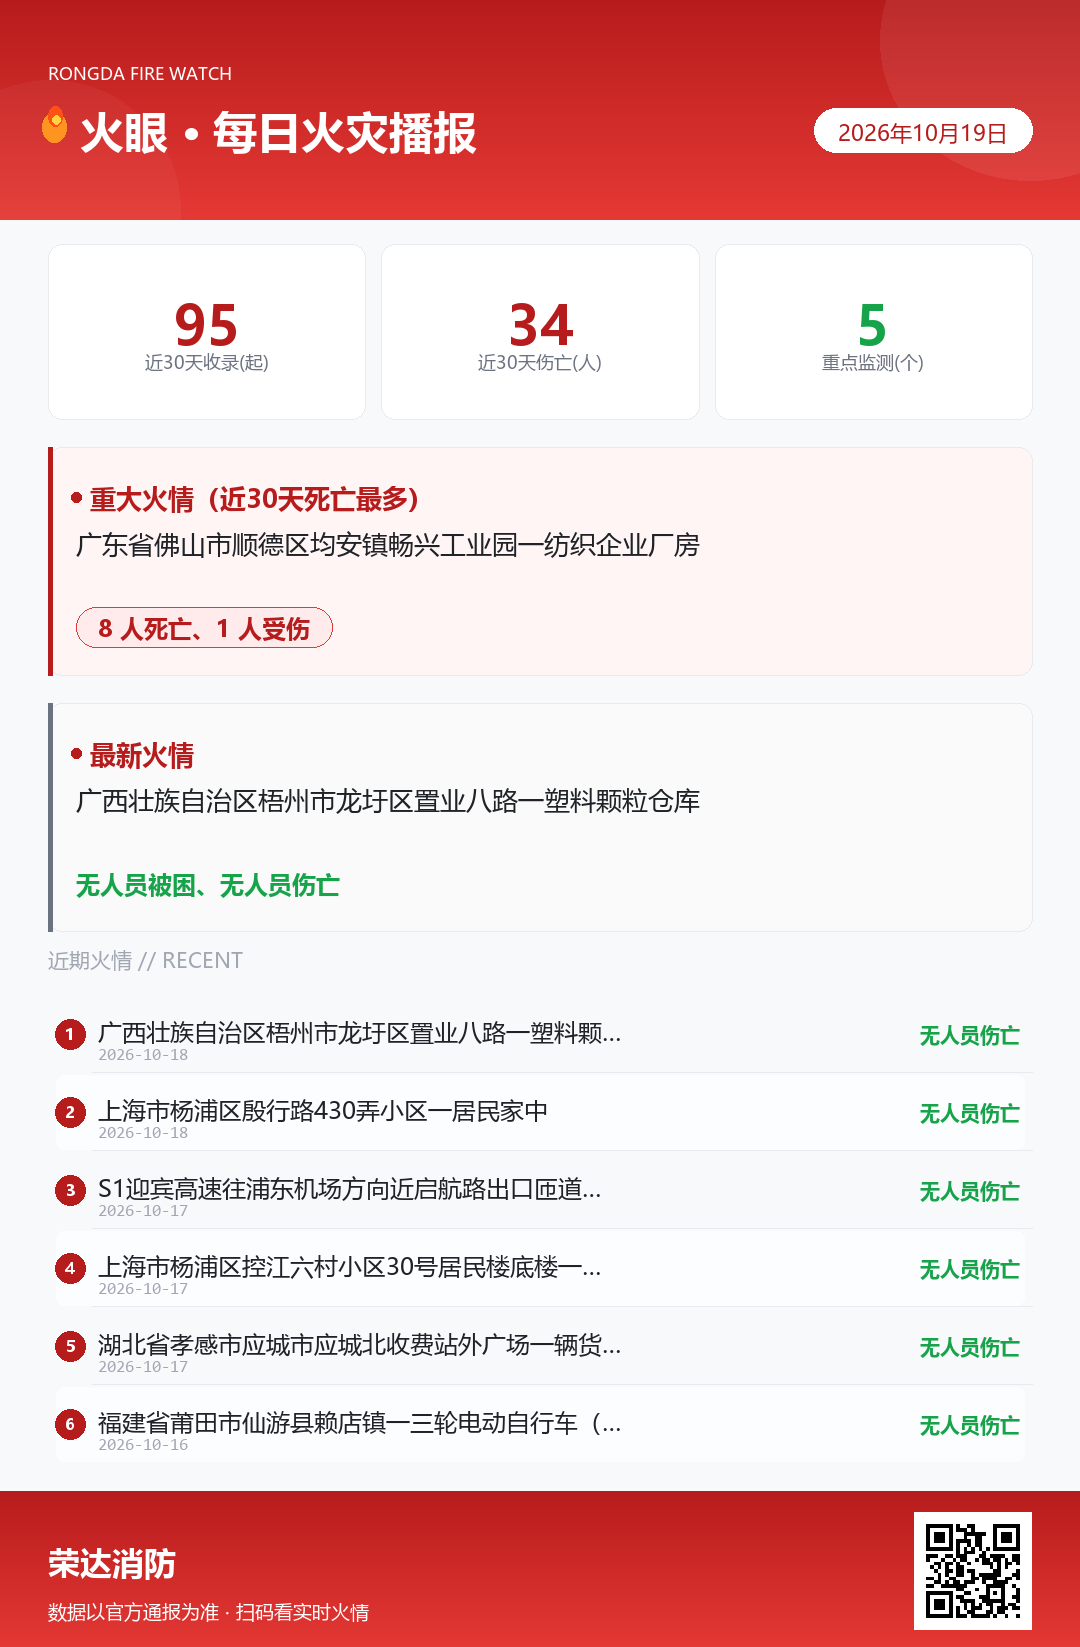
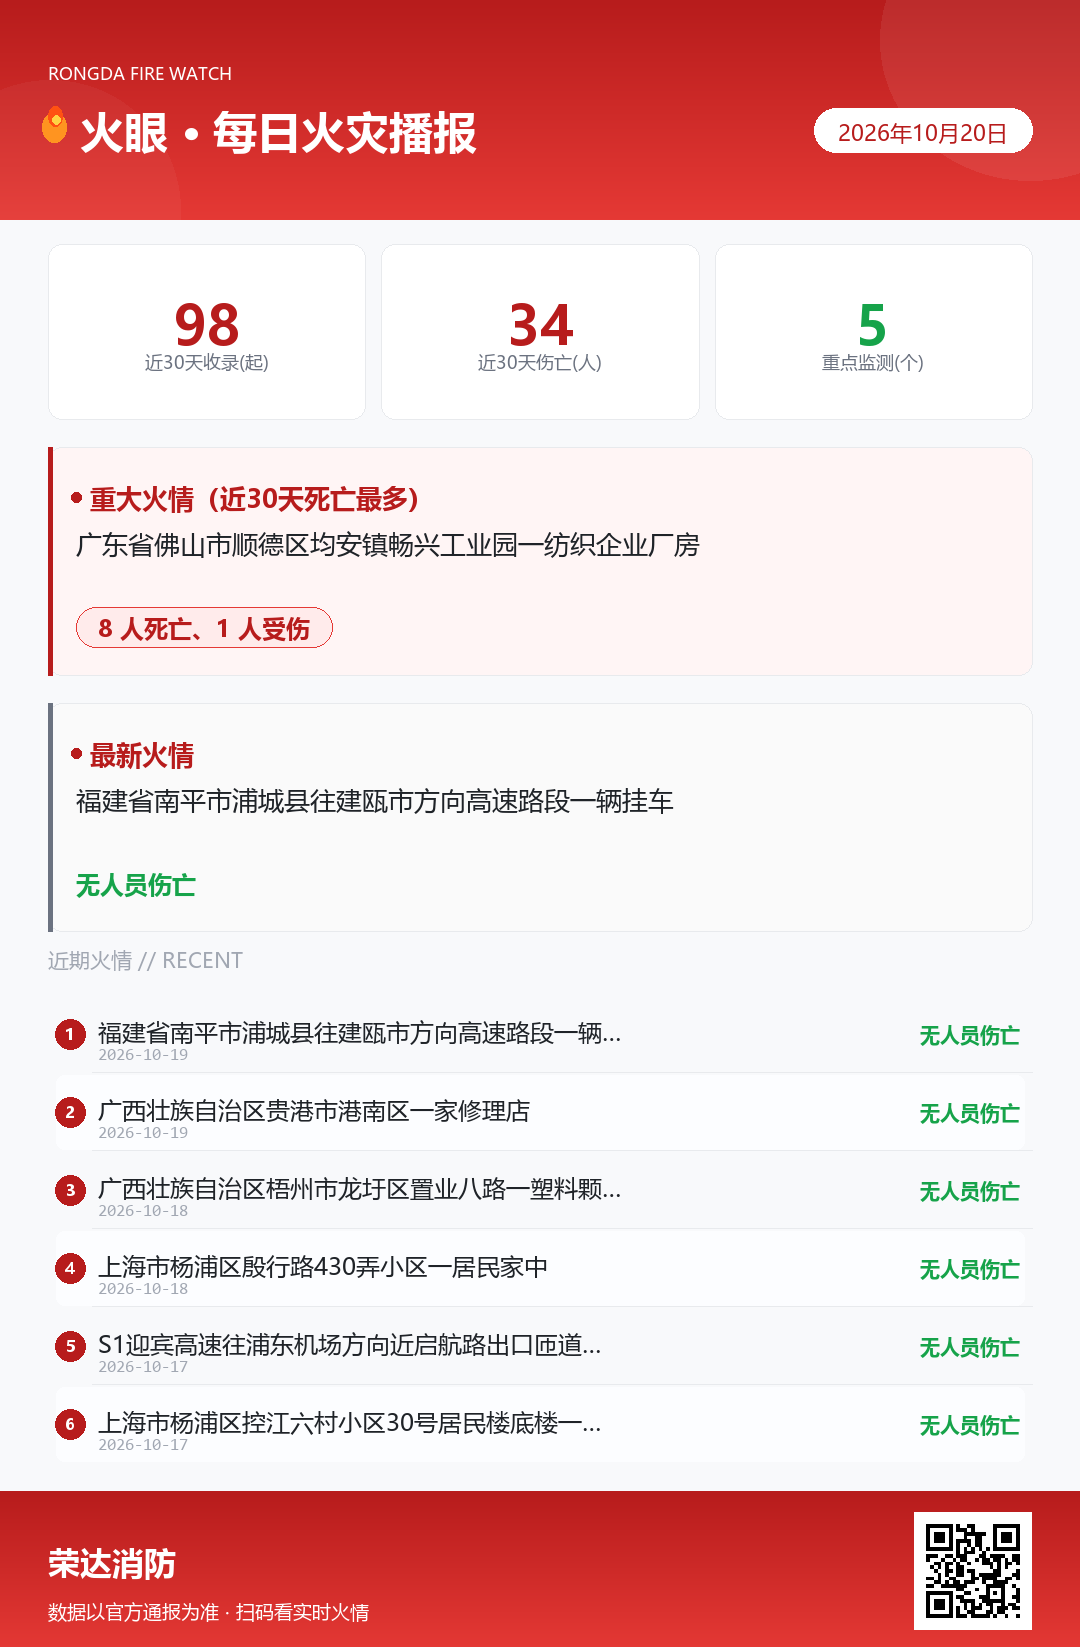
fire-daily-brief 2026-10-20 07:02 roll

diff --git a/index.html b/index.html
@@ -435,8 +435,8 @@
 <!-- ============ DATA（每日自动更新：由自动化脚本重写此对象） ============ -->
 <script id="brief-data" type="application/json">
 {
-  "date": "2026年10月19日",
-  "compileTime": "2026-10-19 09:54",
+  "date": "2026年10月20日",
+  "compileTime": "2026-10-20 07:01",
   "source": "AI 联网检索 · 各地消防救援机构官方通报及权威媒体转载",
   "range": "滚动更新 · 近 30 天",
   "stats": {
@@ -459,17 +459,17 @@
     },
     {
       "name": "深圳市",
-      "status": "有官方通报（8·1 宝安西乡电动车充电桩、8·4 龙岗布吉停车场车辆起火、8·21 罗湖桃园路奥特城楼顶火情、9·17 罗湖区桂园街道KK MALL商场消防通道附近电线短路局部冒烟（无人员受伤）、9·25 罗湖区南塘商业广场一小区住户阳台祭祀香烛引燃阳台杂物起火，邻居接力扑灭（无人员伤亡））"
+      "status": "有官方通报（8·1 宝安西乡电动车充电桩、8·4 龙岗布吉停车场车辆起火、8·21 罗湖桃园路奥特城楼顶火情、9·17 罗湖区桂园街道KK MALL商场消防通道附近电线短路局部冒烟（无人员受伤）、9·25 罗湖区南塘商业广场一小区住户阳台祭祀香烛引燃阳台杂物起火，邻居接力扑灭（无人员伤亡）、9·22 龙岗区宝龙街道一住宅室内二手电动自行车锂电池自燃起火（无人员伤亡，当事人被行拘10日）"
     }
   ],
   "case": {
-    "date": "2026-10-18",
-    "location": "广西壮族自治区梧州市龙圩区置业八路一塑料颗粒仓库",
-    "category": "仓储/物流",
-    "summary": "10月18日9时16分，梧州市龙圩区置业八路一塑料颗粒仓库发生火灾。接报后，梧州市消防救援局指挥中心立即调派1个举高编队、8个灭火编队，出动17辆消防车、85名消防救援人员赶赴现场扑救。经初步了解，燃烧物主要为塑料颗粒制品，现场无人员被困。截至通报发布时，火灾已得到有效控制。相关视频曾在网络热传，消防部门同时呼吁市民理性对待突发火情，不转发未经核实的图片、视频，不传播不属实信息。",
-    "casualty": "无人员被困、无人员伤亡",
-    "cause": "通报未披露，具体原因以官方后续调查为准",
-    "src": "梧州消防微信公众号火情通报，南方+/澎湃新闻/腾讯新闻转载（2026-10-18）"
+    "date": "2026-10-19",
+    "location": "福建省南平市浦城县往建瓯市方向高速路段一辆挂车",
+    "category": "交通枢纽",
+    "summary": "10月19日，福建南平浦城县往建瓯市方向高速路段一辆挂车行驶中自燃起火，现场腾起黑色浓烟，起火车辆突然腾起猛烈火焰，明火形成巨大橙红色火球，途经车辆纷纷避让。13时许，记者从高速公路救援部门获悉，火势已被扑灭，事故未造成人员伤亡，相关路段车辆正逐步恢复通行。",
+    "casualty": "无人员伤亡",
+    "cause": "行驶中自燃，具体原因以官方后续调查为准",
+    "src": "百姓关注（贵州广播电视台）/澎湃新闻（2026-10-19）"
   },
   "tips": [
     "住宅近30天火情占比超三成，多在老旧插排长期通电、手机充电器不拔、私拉乱接短路：泉州9·27民房手机充电器长年通电打火、泉州9·26沿街超市插排串联过载短路。老旧插排和永远不拔的充电器该换就换，睡前出门拉总闸，明线私拉一律整改。",
@@ -488,6 +488,24 @@
     "媒体转载内容均注明原始官方来源。"
   ],
   "history": [
+    {
+      "date": "2026-10-19",
+      "location": "福建省南平市浦城县往建瓯市方向高速路段一辆挂车",
+      "category": "交通枢纽",
+      "summary": "10月19日，福建南平浦城县往建瓯市方向高速路段一辆挂车行驶中自燃起火，现场腾起黑色浓烟，起火车辆突然腾起猛烈火焰，明火形成巨大橙红色火球，途经车辆纷纷避让。13时许，记者从高速公路救援部门获悉，火势已被扑灭，事故未造成人员伤亡，相关路段车辆正逐步恢复通行。",
+      "casualty": "无人员伤亡",
+      "cause": "行驶中自燃，具体原因以官方后续调查为准",
+      "src": "百姓关注（贵州广播电视台）/澎湃新闻（2026-10-19）"
+    },
+    {
+      "date": "2026-10-19",
+      "location": "广西壮族自治区贵港市港南区一家修理店",
+      "category": "其他",
+      "summary": "10月19日14时许，贵港市港南分局反恐怖和特巡警大队辅警与同事外出执行任务，途经辖区一家修理店时，发现店内冒出滚滚浓烟、明火蹿起。店铺工作人员正用水和灭火器尝试扑救，但火势持续扩大并有向周边蔓延的趋势。辅警与同事当即停车，迅速取用现场灭火器，与店主、周边群众分工配合向着火点喷射灭火剂，短短数分钟成功扑灭全部明火，并仔细排查现场消除复燃隐患。经现场核查，起火原因为店内待维修电动车电瓶短路，引燃周边物品。",
+      "casualty": "无人员伤亡",
+      "cause": "店内待维修电动车电瓶短路引燃周边物品",
+      "src": "港南公安微信公众号（2026-10-19）"
+    },
     {
       "date": "2026-10-18",
       "location": "广西壮族自治区梧州市龙圩区置业八路一塑料颗粒仓库",
@@ -786,6 +804,15 @@
       "src": "江苏消防（无锡消防全媒体工作中心发布，2026-10-18）"
     },
     {
+      "date": "2026-10-12",
+      "location": "江苏省常州市钟楼区一烧烤店",
+      "category": "餐饮/酒店",
+      "summary": "10月12日傍晚，常州市钟楼区一烧烤店主跟往常一样在后厨起锅炒菜，不料点火的瞬间一团明火突然窜起，疑因炉内煤气积聚遇火爆燃。店主尝试用锅盖方式灭火但火势过大，此时厨房顶部的自动喷淋系统感应到高温后爆裂启动，水幕倾泻而下压住火势。消防员到达现场时明火已被喷淋扑灭，用餐区餐桌椅、碗筷基本保持原样，后厨灶台墙面被熏黑、油锅有过火痕迹。经排查，整起事故无人员伤亡。",
+      "casualty": "无人员伤亡",
+      "cause": "疑燃气点火瞬间爆燃（自动喷淋系统及时启动控火）",
+      "src": "常州消防（2026-10-19 案例通报）"
+    },
+    {
       "date": "2026-10-11",
       "location": "广东省佛山市南海区黄岐广佛五金城A区3号馆2号楼三楼仓库",
       "category": "仓储/物流",
@@ -820,6 +847,16 @@
       "casualty": "无人员伤亡",
       "cause": "起火原因正在进一步调查中",
       "src": "泉州消防/鲤城消防官方通报（2026-10-18），澎湃新闻转载"
+    },
+    {
+      "date": "2026-10-11",
+      "location": "四川省攀枝花市一住宅（客厅沙发）",
+      "category": "住宅/民房",
+      "summary": "10月11日，四川攀枝花一住宅发生火灾，一位老人坐在沙发上吸烟，烟蒂未彻底熄灭落进沙发缝隙，引燃木质沙发、扶手衣物、腰垫及旁边堆放的塑料杂物。万幸无人受伤，经消防部门调查，起火原因系遗留烟蒂引燃沙发可燃物所致。",
+      "casualty": "无人员受伤",
+      "cause": "老人遗留烟蒂引燃沙发可燃物（阴燃后蔓延）",
+      "src": "四川消防微信公众号通报（2026-10-18 重阳节宣传稿），搜狐转载",
+      "fromWatchlist": true
     },
     {
       "date": "2026-10-10",
@@ -910,6 +947,15 @@
       "casualty": "无人员伤亡",
       "cause": "违规电焊作业，焊渣引燃堆放草纸等可燃物（电焊工操作证过期、无证上岗）",
       "src": "中国消防、九江消防（2026-10 发布，发布日归档）"
+    },
+    {
+      "date": "2026-10-08",
+      "location": "浙江省杭州市某小区一电动车停车棚",
+      "category": "住宅/民房",
+      "summary": "10月8日清晨6时30分左右，杭州某小区一位业主突然听到爆响，从窗口望出去发现电动车停车棚处有火光冒出，第一时间联系物业并拨打119报警。物业工作人员2分钟内抵达现场，立即用灭火器开展紧急扑救，初期有3辆电动车起火，因锂电池燃烧速度极快，灭火器无法彻底压制，工作人员迅速连接室外消火栓铺设水带持续出水压制，消防救援人员抵达后对残余火势和阴燃点位彻底清理。此次火灾烧毁11辆电动车、5辆自行车、1辆摩托车，经初步调查，起火原因为电动自行车电池热失控。",
+      "casualty": "无人员伤亡",
+      "cause": "电动自行车电池热失控",
+      "src": "杭州网（据消防部门）/南方都市报转北京应急（2026-10-19）"
     },
     {
       "date": "2026-10-07",
@@ -1201,6 +1247,15 @@
       "src": "中国电信 / 新浪新闻（2026-09-29 报道，事件发生日 09-25）"
     },
     {
+      "date": "2026-09-25",
+      "location": "广东省东莞市麻涌镇一厂房（二楼动火作业）",
+      "category": "工厂/车间",
+      "summary": "9月25日17时20分许，东莞市麻涌镇一厂房二楼起火，火灾造成直接经济损失近十万元，所幸救援及时，事故无人员伤亡。经调查，起火原因为动火作业遗留火种引燃周边可燃物。经查，工人阳某在未取得特种作业操作证的情况下违规进行动火作业，被公安机关依法行政拘留3日；湛某明知气焊作业存在安全隐患，仍指使无相关作业许可的工人施工作业，被依法行政拘留10日。",
+      "casualty": "无人员伤亡",
+      "cause": "无证违规动火作业遗留火种引燃周边可燃物",
+      "src": "东莞市消防救援局全媒体工作中心（来源：应急管理部），2026-10-19 发布"
+    },
+    {
       "date": "2026-09-24",
       "location": "广东省广州市白云区人和镇同富路13号一厂房",
       "category": "工厂/车间",
@@ -1262,6 +1317,15 @@
       "casualty": "1 人重伤、3 人轻伤",
       "cause": "疑似燃气泄漏引发爆炸（具体原因正在调查中）",
       "src": "阳泉市城区应急管理局/新华社（2026-09-22）"
+    },
+    {
+      "date": "2026-09-22",
+      "location": "广东省深圳市龙岗区宝龙街道一住宅室内（二手电动自行车入户停放）",
+      "category": "住宅/民房",
+      "summary": "9月22日10时24分，深圳市龙岗区宝龙街道一居民将电动自行车推入室内停放，锂电池自燃引发火灾。经调查认定，涉事电动自行车为当事人购买的二手车辆，已于9月15日出现充不进电的故障，当事人仍将该电动自行车推入室内停放。火灾发生当日，宝龙街道联合龙岗区消防救援局、属地派出所召开火灾现场警示会，同步开展城中村电动自行车入户停放、飞线充电专项清理工作，并将案件相关线索移交公安机关，当事人最终被依法行政拘留10日。",
+      "casualty": "无人员伤亡",
+      "cause": "二手电动自行车锂电池自燃（车辆已有充电故障仍入户停放）",
+      "src": "南方都市报（2026-10-18，据龙岗区宝龙街道综合事务中心案例公布）/腾讯新闻转载"
     },
     {
       "date": "2026-09-21",
@@ -1343,6 +1407,15 @@
       "casualty": "无重大伤亡通报",
       "cause": "起火原因待查",
       "src": "广东消防/地方媒体通报（2026-09-19）"
+    },
+    {
+      "date": "2026-09-19",
+      "location": "江苏省常州市武进区一烧烤大排档",
+      "category": "餐饮/酒店",
+      "summary": "9月19日，常州市武进区一烧烤大排档起火，多间铺面被烧毁。据了解，是店主中午油炸东西时温度过高至油锅起火，烧到彩钢瓦顶棚，所幸消防救援及时，未造成人员伤亡。",
+      "casualty": "无人员伤亡",
+      "cause": "油温过高致油锅起火引燃彩钢瓦顶棚",
+      "src": "常州消防（2026-10-19 案例通报）"
     },
     {
       "date": "2026-09-18",
